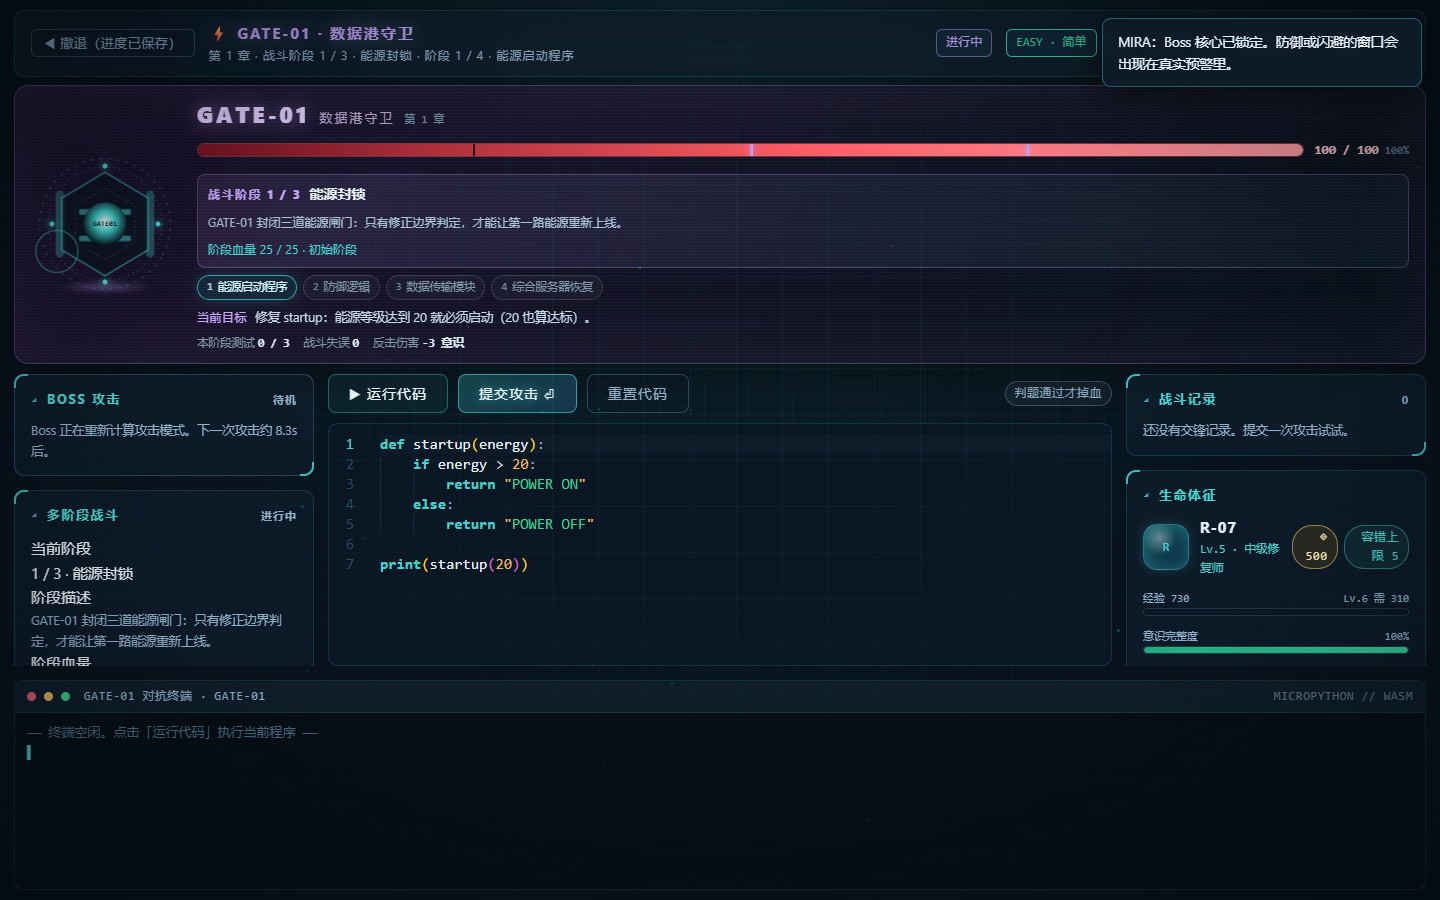
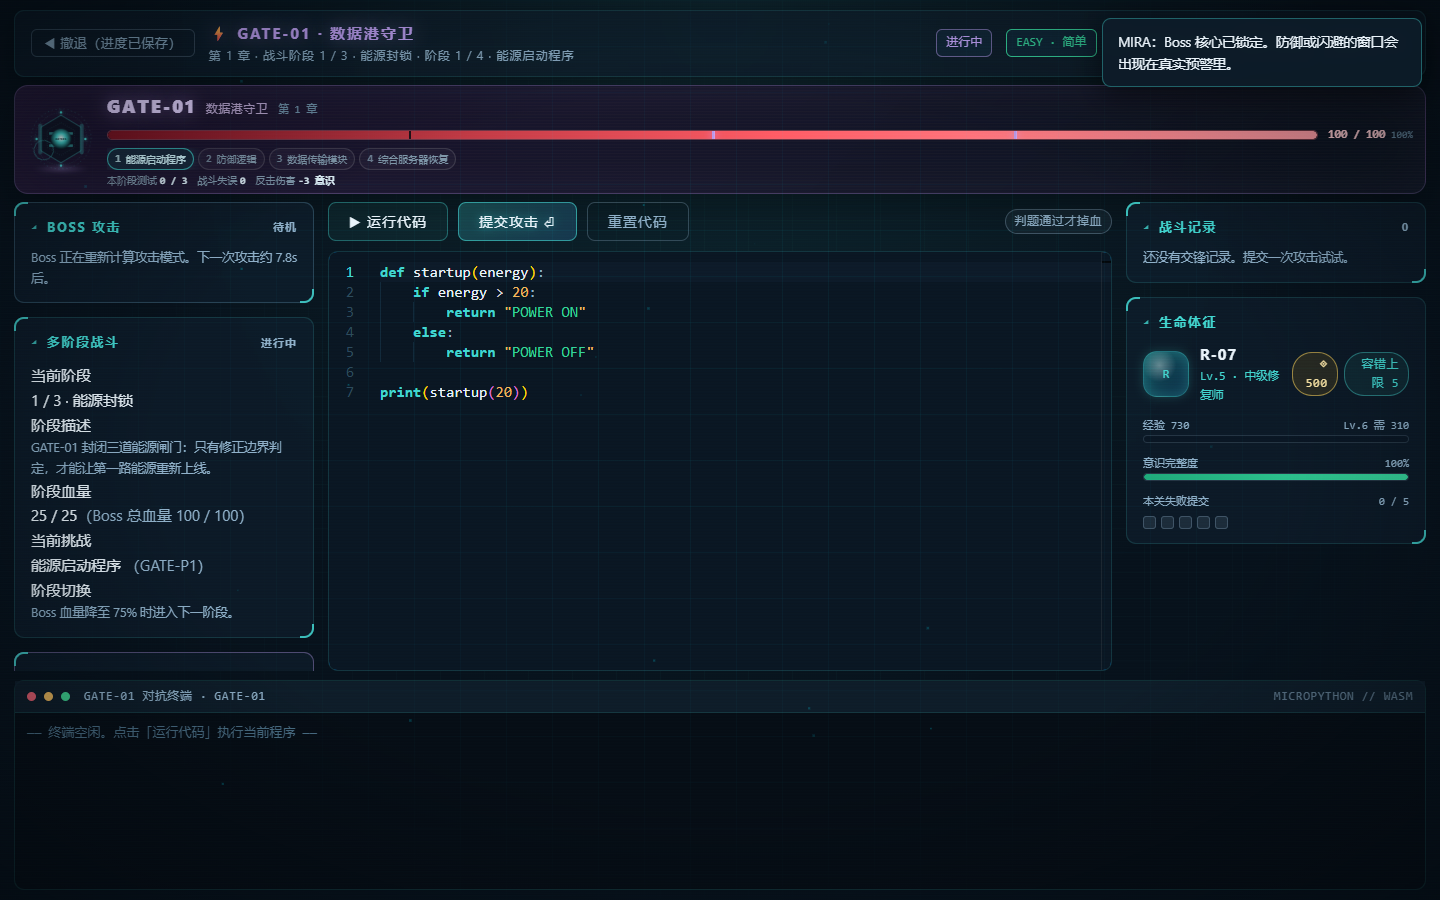
fix(ui): align boss editor height and scroll chapter cards to map
Compact the boss status strip so every boss editor matches the normal challenge height, and smooth-scroll chapter cards to the NEXUS core map.

diff --git a/public/boss.css b/public/boss.css
@@ -1014,3 +1014,37 @@
 .dev-registry-panel { margin-top: 10px; padding: 8px 10px; border: 1px solid rgba(201,167,255,.3); border-radius: 9px; background: rgba(14,8,22,.5); }
 .dev-registry-grid { display: grid; grid-template-columns: 1fr auto; gap: 3px 10px; font-size: 11px; color: #BFD8E8; }
 .dev-registry-grid b { color: #FFD75E; font-family: Consolas, monospace; }
+
+/* ---------- V1.3-F.4 热修 · Boss 战代码框与普通关卡等高 ---------- */
+/* 顶部只保留紧凑 Boss 状态条；阶段详情/目标/统计已由左侧任务与战斗记录承载。 */
+.boss-page .boss-arena {
+  min-height: 0;
+  padding: 6px 12px;
+  margin-bottom: 8px;
+}
+.boss-page .boss-arena .arena-grid { gap: 12px; }
+.boss-page .boss-arena .boss-avatar { width: 68px; height: 68px; flex: 0 0 68px; }
+.boss-page .boss-arena .boss-avatar-shadow { width: 56px; bottom: 0; height: 8px; }
+.boss-page .boss-arena .boss-info { gap: 4px; }
+.boss-page .boss-arena .boss-name { font-size: 18px; letter-spacing: 2px; }
+.boss-page .boss-arena .boss-title { font-size: 11.5px; letter-spacing: 1px; }
+.boss-page .boss-arena .boss-chapter { font-size: 10.5px; }
+.boss-page .boss-arena .boss-battle-phase,
+.boss-page .boss-arena .boss-objective { display: none; }
+.boss-page .boss-arena .boss-metrics { display: flex; gap: 10px; font-size: 10px; line-height: 1.2; }
+.boss-page .boss-arena .boss-metrics .metric { font-size: 10px; }
+.boss-page .boss-arena .phase-pips { gap: 4px; flex-wrap: nowrap; overflow: hidden; }
+.boss-page .boss-arena .pip { padding: 1px 7px; font-size: 10px; white-space: nowrap; }
+.boss-page .boss-arena .hp-num { font-size: 11.5px; }
+.boss-page .boss-arena .hp-pct { font-size: 10px; }
+.boss-page .boss-arena .hp-track { height: 10px; }
+@media (min-width: 1200px) {
+  .boss-page .chlg-center .code-frame { min-height: 420px; }
+}
+@media (max-width: 900px) {
+  .boss-page .boss-arena { padding: 6px 10px; }
+  .boss-page .boss-arena .arena-grid { flex-direction: row; align-items: center; }
+  .boss-page .boss-arena .boss-avatar { width: 58px; height: 58px; flex: 0 0 58px; }
+  .boss-page .boss-arena .boss-name { font-size: 15px; }
+  .boss-page .boss-arena .pip { display: none; }
+}

diff --git a/src/pages/WorldMap.tsx b/src/pages/WorldMap.tsx
@@ -57,6 +57,7 @@ export default function WorldMap() {
   const [statusFilter, setStatusFilter] = useState<Record<string, boolean>>({ online: true, restored: true, damaged: true, locked: true, sealed: true });
   const [corePulse, setCorePulse] = useState(0);
   const prevStatusRef = useRef<Record<string, NodeStatus>>({});
+  const mapWrapRef = useRef<HTMLDivElement | null>(null);
 
   const tutDone = p.completedLevels.includes('tut-1');
   const ch1Done = p.flags.chapter1Done === true;
@@ -184,6 +185,12 @@ export default function WorldMap() {
   const selLevels = sel ? levelsOfServer(sel) : [];
 
   /** 章节卡片：未解锁时明确提示解锁条件（全部来自真实状态） */
+  const scrollToMap = () => {
+    const reduce = typeof window !== 'undefined' && window.matchMedia && window.matchMedia('(prefers-reduced-motion: reduce)').matches;
+    window.setTimeout(() => mapWrapRef.current?.scrollIntoView({ behavior: reduce ? 'auto' : 'smooth', block: 'start' }), 60);
+  };
+
+  /** 章节卡片：未解锁时明确提示解锁条件（全部来自真实状态），并始终滑到地图中枢。 */
   const focusChapter = (serverId: string) => {
     const access = canEnterServer(g.player, serverId);
     if (!access.ok) {
@@ -191,11 +198,13 @@ export default function WorldMap() {
       setShakeId(serverId);
       window.setTimeout(() => setShakeId(null), 450);
       g.toast('warn', access.reason);
+      scrollToMap();
       return;
     }
     play('click');
     setSel(serverId);
     if (!g.player.progress.flags['brief_' + serverId]) setBriefServer(serverId);
+    scrollToMap();
   };
 
   return (
@@ -307,7 +316,7 @@ export default function WorldMap() {
           </div>
         </div>
 
-        <div className="map-wrap">
+        <div className="map-wrap" ref={mapWrapRef}>
           <div className="map-toolbar">
             <button className="mt-btn" onClick={() => { play('click'); setZoom(z => Math.min(1.8, +(z + 0.15).toFixed(2))); }} title="放大">＋</button>
             <button className="mt-btn" onClick={() => { play('click'); setZoom(z => Math.max(0.65, +(z - 0.15).toFixed(2))); }} title="缩小">－</button>

diff --git a/public/worldmap.css b/public/worldmap.css
@@ -185,3 +185,6 @@
 @media (prefers-reduced-motion: reduce) {
   .map-panel .enter-btn { animation: none; }
 }
+
+/* V1.3-F.4 热修 · 章节卡片跳转到地图中枢 */
+.map-wrap { scroll-margin-top: 8px; }
